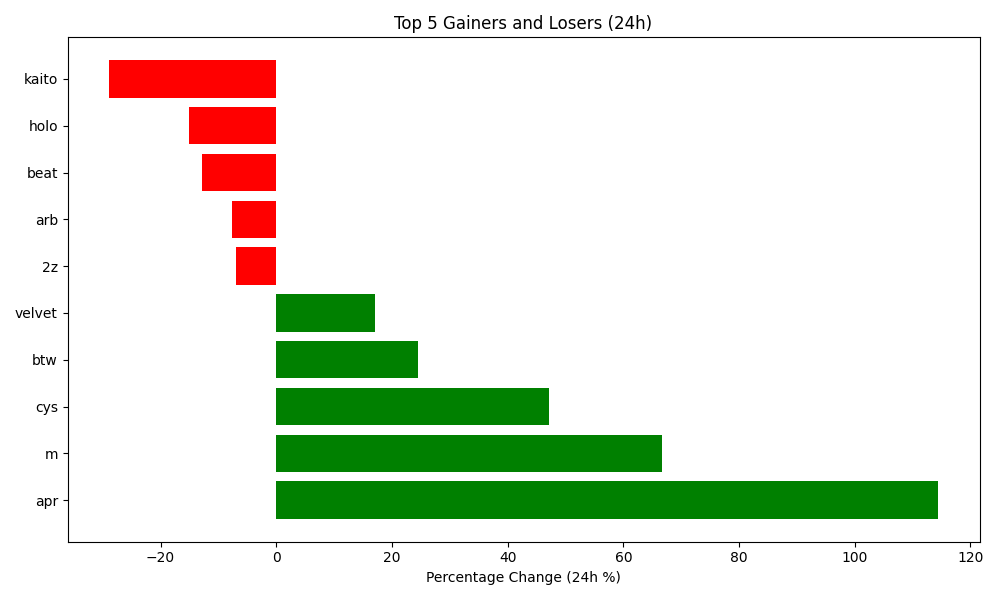
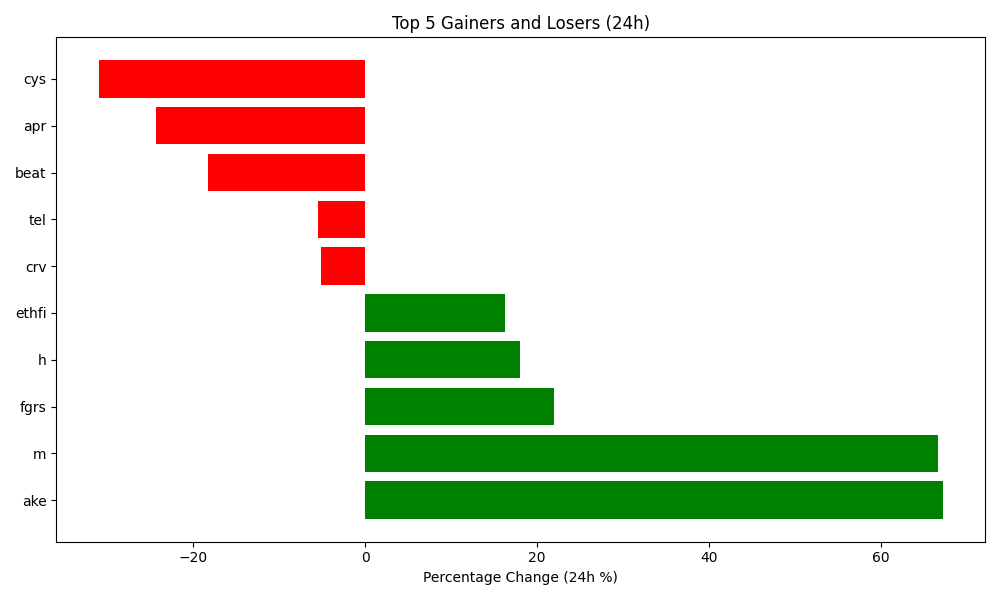
Auto-update crypto data and plot

diff --git a/README.md b/README.md
@@ -4,7 +4,7 @@ Author: Hitesh Agrawal
 This repository automatically tracks the top 5 gaining, top 5 losing, and top 5 highest volume cryptocurrencies in the last 24 hours using the CoinGecko API, Python, Matplotlib, and GitHub Actions updates the below content everyday at midnight.
 
 <!-- START_DYNAMIC_CONTENT -->
-Last updated: 2026-08-13 01:17 UTC
+Last updated: 2026-08-14 01:16 UTC
 
 ![Crypto Movers Plot](crypto_movers_plot.png)
 
@@ -12,33 +12,33 @@ Last updated: 2026-08-13 01:17 UTC
 
 | Rank | Coin | Price Change (24h %) | Volume (USD) | Current Price (USD) |
 | :--: | :--: | :------------------: | :----------: | :-----------------: |
-| 1 | apr | 114.40% | $126,198,747 | $0.4974 |
+| 1 | ake | 67.20% | $85,761,223 | $0.0069 |
 | 2 | m | 66.70% | $383,597 | $1.2900 |
-| 3 | cys | 47.20% | $73,021,306 | $1.6400 |
-| 4 | btw | 24.50% | $50,568,402 | $0.2535 |
-| 5 | velvet | 17.10% | $24,295,041 | $0.6514 |
+| 3 | fgrs | 22.00% | $891,789 | $31.7000 |
+| 4 | h | 18.00% | $7,513,229 | $0.1066 |
+| 5 | ethfi | 16.30% | $56,613,722 | $0.4410 |
 
 
 **👇 Top 5 Losers (24h)**
 
 | Rank | Coin | Price Change (24h %) | Volume (USD) | Current Price (USD) |
 | :--: | :--: | :------------------: | :----------: | :-----------------: |
-| 1 | kaito | -28.90% | $88,344,504 | $0.4452 |
-| 2 | holo | -15.10% | $55,751,278 | $0.0701 |
-| 3 | beat | -12.80% | $89,653,042 | $0.9200 |
-| 4 | arb | -7.60% | $43,305,537 | $0.0738 |
-| 5 | 2z | -7.00% | $15,813,904 | $0.0486 |
+| 1 | cys | -31.00% | $49,456,376 | $1.1600 |
+| 2 | apr | -24.30% | $44,090,064 | $0.4685 |
+| 3 | beat | -18.30% | $39,741,212 | $0.8591 |
+| 4 | tel | -5.50% | $911,799 | $0.0015 |
+| 5 | crv | -5.10% | $48,636,721 | $0.2529 |
 
 
 **💎 Top 5 by Trade Volume (24h)**
 
 | Rank | Coin | Price Change (24h %) | Volume (USD) | Current Price (USD) |
 | :--: | :--: | :------------------: | :----------: | :-----------------: |
-| 1 | usdt | 0.00% | $32,834,920,555 | $0.9992 |
-| 2 | btc | 0.00% | $22,233,016,175 | $63,559.0000 |
-| 3 | usdc | 0.00% | $9,556,552,316 | $0.9995 |
-| 4 | eth | 0.00% | $6,803,193,531 | $1,880.3800 |
-| 5 | sol | -0.80% | $1,227,587,929 | $75.6700 |
+| 1 | usdt | 0.00% | $29,466,278,368 | $0.9992 |
+| 2 | btc | 0.10% | $18,837,308,838 | $63,460.0000 |
+| 3 | usdc | 0.00% | $7,693,981,321 | $0.9996 |
+| 4 | eth | 0.50% | $6,028,474,402 | $1,884.9200 |
+| 5 | sol | 0.60% | $1,174,223,896 | $75.8800 |
 
 
 <!-- END_DYNAMIC_CONTENT -->
